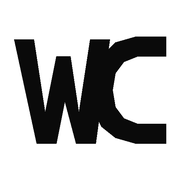
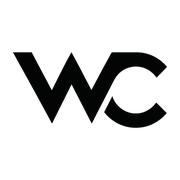
Apply WC monogram branding

Changed region(s): [[0.0556, 0.1944, 0.9444, 0.8056]]

diff --git a/app/globals.css b/app/globals.css
@@ -3771,6 +3771,34 @@ main::before {
   color: #dceafd;
 }
 
+.wordmark {
+  display: inline-flex;
+  gap: 10px;
+  align-items: center;
+  width: max-content;
+  letter-spacing: 0.04em;
+}
+
+.wordmark img {
+  width: 42px;
+  height: 42px;
+  object-fit: contain;
+}
+
+.wordmark span {
+  color: var(--ink);
+  font-family: "Courier New", monospace;
+  font-size: 9px;
+  font-weight: 700;
+  letter-spacing: 0.12em;
+  -webkit-text-stroke: 0;
+}
+
+.site-header.is-scrolled .wordmark img {
+  width: 34px;
+  height: 34px;
+}
+
 @media (max-width: 900px) {
   .site-header nav {
     gap: 14px;
@@ -3840,6 +3868,10 @@ main::before {
 
   .robotics-principles {
     grid-template-columns: 1fr 1fr;
+  }
+
+  .wordmark span {
+    display: none;
   }
 
   .readyloop-footer {

diff --git a/app/layout.tsx b/app/layout.tsx
@@ -31,11 +31,12 @@ export const metadata: Metadata = {
   },
   icons: {
     icon: [
-      { url: `${basePath}/favicon.svg`, type: "image/svg+xml" },
-      { url: `${basePath}/favicon.ico`, sizes: "32x32" },
+      { url: `${basePath}/favicon.ico`, sizes: "any" },
+      { url: `${basePath}/favicon-32.png`, type: "image/png", sizes: "32x32" },
+      { url: `${basePath}/favicon-16.png`, type: "image/png", sizes: "16x16" },
     ],
     shortcut: `${basePath}/favicon.ico`,
-    apple: `${basePath}/apple-touch-icon.png`,
+    apple: [{ url: `${basePath}/apple-touch-icon.png`, sizes: "180x180", type: "image/png" }],
   },
   manifest: `${basePath}/site.webmanifest`,
   robots: {

diff --git a/app/portfolio.tsx b/app/portfolio.tsx
@@ -1253,7 +1253,15 @@ export default function Portfolio() {
       <main id="content" onPointerMove={handlePointerMove}>
       <header className={`site-header ${isScrolled ? "is-scrolled" : ""}`}>
         <a className="wordmark" href="#top" aria-label="WCCHUN home">
-          WC<span>CHUN</span>
+          <Image
+            src={assetPath("/wc-monogram.png")}
+            alt=""
+            width={1024}
+            height={1024}
+            priority
+            unoptimized
+          />
+          <span>WCCHUN</span>
         </a>
         <button
           className="mobile-menu-toggle"
